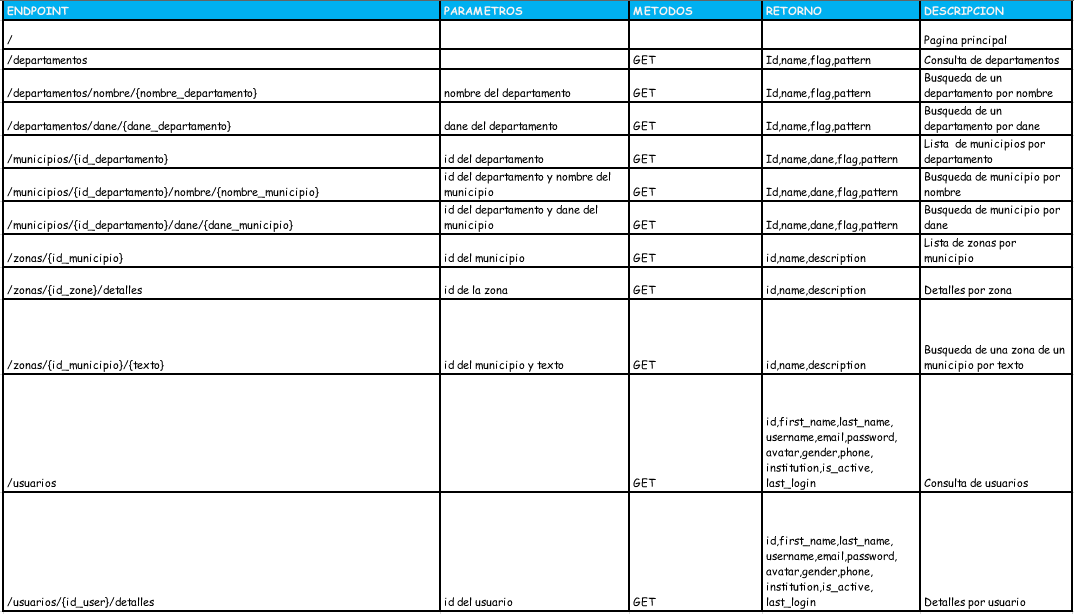
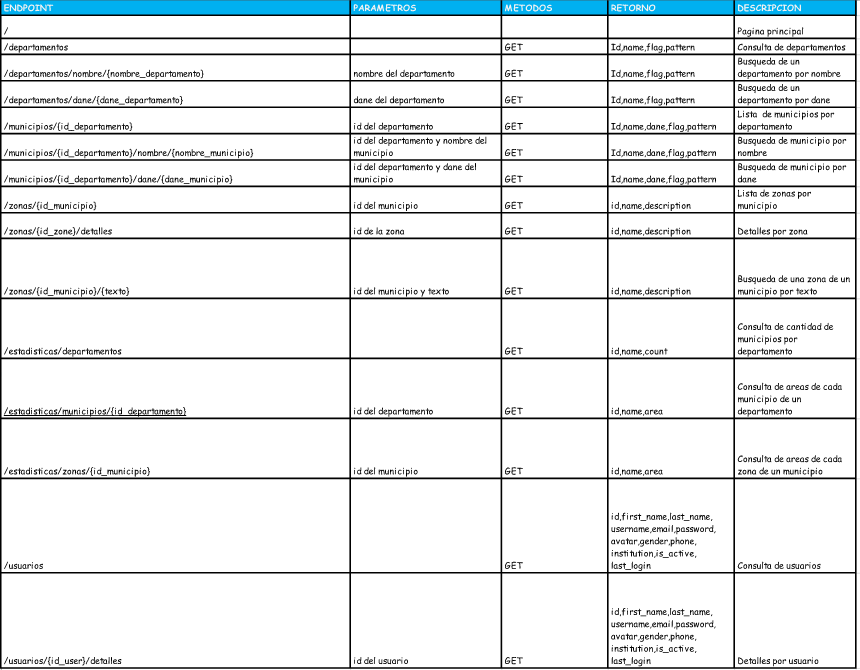
Area de cada zona por municipio

Changed region(s): [[0.0, 0.0, 1.0, 1.0]]

diff --git a/Source/Backend/app/Zone.php b/Source/Backend/app/Zone.php
@@ -4,6 +4,7 @@ namespace App;
 
 use Illuminate\Database\Eloquent\Model;
 use DB;
+use App\Area;
 
 class Zone extends Model
 {
@@ -52,6 +53,19 @@ class Zone extends Model
         ->leftJoin('locations', 'zones.id', '=', 'locations.id_zone')
         ->select('zones.*', 'usos.description as use', 'areas.measure', 'areas.unit', 'locations.latitude_start', 'locations.latitude_end', 'locations.longitude_start', 'locations.longitude_end')
         ->get()->toArray();
+    }
+
+       public static function areaZonas($id_municipio)
+    {
+        
+      $id_zonas= Zone::where('id_place',$id_municipio)->get(['id'])->toArray();
+      $array= Zone::where('id_place',$id_municipio)->get(['id','name'])->toArray();
+
+       for($i=0;$i<sizeof($id_zonas);$i++){
+      
+  $array[$i]=array_add($array[$i], 'area:', Area::where('id_zone', $id_zonas[$i])->count());
+       }
+       return $array;
     }
 }
 

diff --git a/Source/Backend/app/Place.php b/Source/Backend/app/Place.php
@@ -24,9 +24,14 @@ class Place extends Model
     }
     public static function numeroMunicipios()
     {
+
+        $id_muni= Place::where('pattern',null)->get(['id'])->toArray();
         $array=Place::where('pattern',null)->get(['id','name'])->toArray();
-        for($i=0;$i<33;$i++){
-         $array[$i]=array_add($array[$i], 'count:', Place::where('pattern', $i+1)->count());}
+
+        for($i=0;$i<sizeof($id_muni);$i++){
+         $array[$i]=array_add($array[$i], 'count:', Place::where('pattern', $id_muni[$i])->count());
+        }
+        
      return $array;
 }
     public static function searchNameDepartments($name)

diff --git a/Source/Backend/routes/web.php b/Source/Backend/routes/web.php
@@ -52,7 +52,7 @@ Route::get('estadisticas/departamentos', 'EstadisticasController@index')->middle
 //Ruta para consultar cantidad de municipios por departamento
 //Route::get('estadisticas/municipios/id_departamento','EstadisticasController@')->middleware('cors');
 //Ruta para consultar area total de cadda municipio por departamento
-//Route::get('estadisticas/zonas/id_municipio','EstadisticasController@')->middleware('cors');
+Route::get('estadisticas/zonas/{id_municipio}','EstadisticasController@show')->middleware('cors');
 //Ruta para consultar area de cada zona por municipio
 
 

diff --git a/Source/Backend/app/Http/Controllers/EstadisticasController.php b/Source/Backend/app/Http/Controllers/EstadisticasController.php
@@ -5,6 +5,7 @@ namespace App\Http\Controllers;
 use Illuminate\Http\Request;
 
 use App\Place;
+use App\Zone;
 
 class EstadisticasController extends Controller
 {
@@ -49,7 +50,8 @@ class EstadisticasController extends Controller
      */
     public function show($id)
     {
-        //
+      $zonas=Zone::areaZonas($id);
+    return response()->json($zonas);
     }
 
     /**
